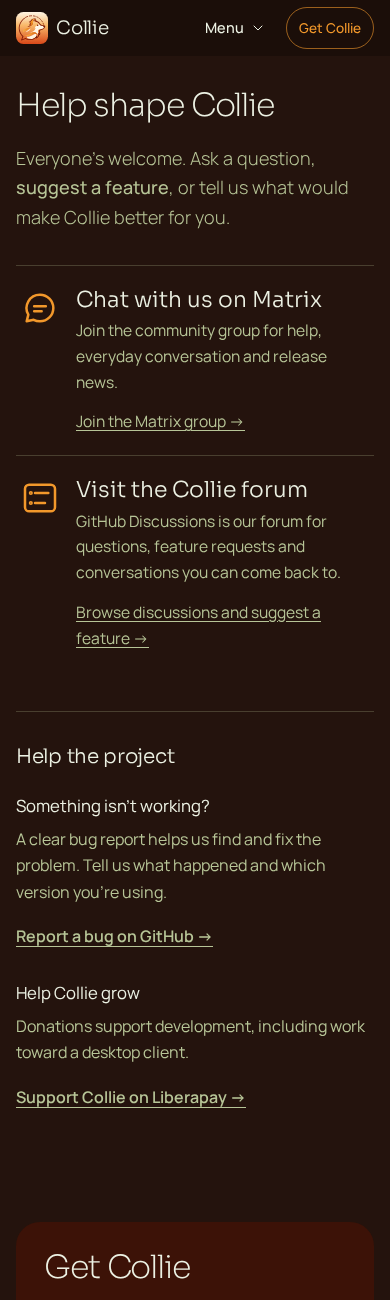
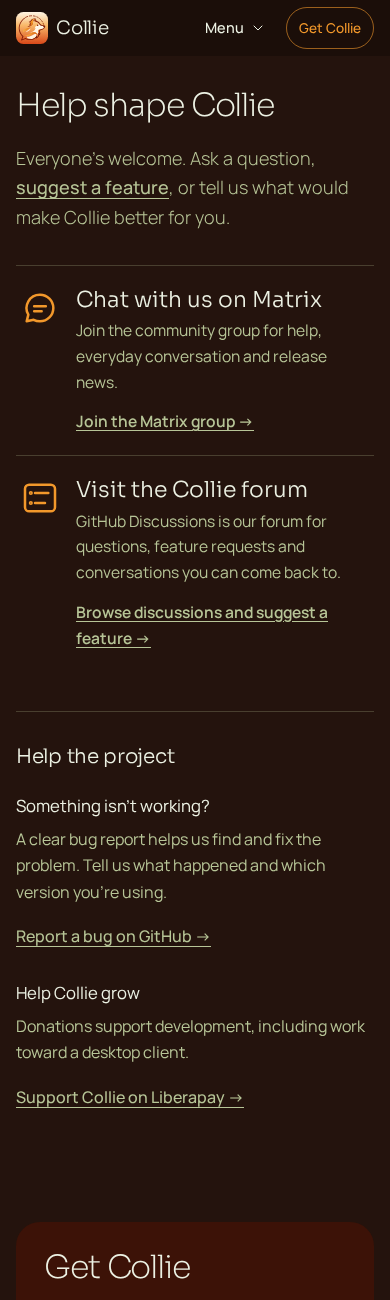
Record community action hierarchy and destination proof
Refresh the three affected views and computed primary/help weights while preserving the established website and installation evidence.

Layer: website

diff --git a/docs/screenshots/pr-95/README.md b/docs/screenshots/pr-95/README.md
@@ -1,10 +1,10 @@
 # Current website review evidence
 
-Implementation source is signed e532bde62ac1e4d4429b822055ee60ecc365c38a; native assets/provenance are signed b3b4857fe6ebc0338f732cd9129c8b1bc94880f0. Review the containing evidence commit as one stable candidate. No rating is supplied by the implementation owner.
+Implementation source is signed eb9e7c2376d78222dc0a86926f33084b26d96879; native assets/provenance are signed b3b4857fe6ebc0338f732cd9129c8b1bc94880f0. Review the containing evidence commit as one stable candidate. No rating is supplied by the implementation owner.
 
 ## Current views
 
-All paths below are in this directory. Features at all four widths, Upcoming at 320/390/1280, community at 320/390/1280, desktop-light/phone-dark downloads and the 390 page top are freshly rendered from this source. The 390 page-top PNG is byte-identical to b11ce6f9cebac1ac52b8c711b188a249f1f13429. Other hero/about/download/footer views retain that revision's unchanged component appearance; their source provenance is explicit rather than claimed as new captures. Historical menu/Obtainium support retains its earlier provenance below.
+All paths below are in this directory. The three community views are current eb9e7c source renders. Other freshly identified component views below retain e532bde source provenance and unchanged appearance. Features at all four widths, Upcoming at 320/390/1280, community at 320/390/1280, desktop-light/phone-dark downloads and the 390 page top are freshly rendered from this source. The 390 page-top PNG is byte-identical to b11ce6f9cebac1ac52b8c711b188a249f1f13429. Other hero/about/download/footer views retain that revision's unchanged component appearance; their source provenance is explicit rather than claimed as new captures. Historical menu/Obtainium support retains its earlier provenance below.
 
 | View | File | Actual iframe CSS viewport / PNG dimensions |
 | --- | --- | --- |
@@ -35,7 +35,7 @@ Collie is an Android messenger for ordinary Signal users. Copy is largely approv
 
 Immediately below the hero, one introduction consolidates Signal compatibility and Signal/Molly foundations. The benefit leads, provenance is quieter, and Source and security details is an optional native disclosure. Side by side, package-name and one-account/two-app explanations remain absent from that introduction; installation verification still names the package. The legal footer disclaimer remains byte-identical.
 
-Matrix chat and GitHub Discussions forum are prominent, with distinct chat/thread-list icons, 40px icon boxes and 22px titles; Help the project is a quieter 20px heading, with 16.8px Help subheads. Bug reporting/donations retain a separate Help the project group. Actions remain underlined, with selective bold/italic emphasis.
+Matrix chat and GitHub Discussions forum are prominent, with distinct chat/thread-list icons, 40px icon boxes and 22px titles; Help the project is a quieter 20px heading, with 16.8px Help subheads. Bug reporting/donations retain a separate Help the project group. Actions remain underlined, with selective bold/italic emphasis. Matrix/forum actions now compute weight600 against Help action500, correcting a specificity override that previously made the primary actions400. Their sizes/colors/icons are unchanged. The existing emphasized “suggest a feature” words in the Community intro now link to the already-used Ideas/Requests category; a real request returned HTTP200 at that exact GitHub category.
 
 Upcoming retains the existing nine-word first sentence as an 18px/400 benefit lead. A native details summary keeps the complete UnifiedPush/trusted MollySocket sentence visible. Only the unchanged easier-setup/linked-phone sentence is disclosed. Phones initially close this detail; desktop, direct #upcoming entry and markup without the site script keep it open. The exact feature Why link opens it before following #upcoming. Ordinary menu navigation does not force it open. No sentence, disclaimer, plan or URL was removed. The native underlined summary remains focusable, with measured heights 96/72/44px at 320/390/1280.
 

diff --git a/docs/screenshots/pr-95/render-checks.md b/docs/screenshots/pr-95/render-checks.md
@@ -154,3 +154,28 @@ behavior {"mode":"click","before":false,"togglesOpen":true,"togglesClosed":true,
 behavior {"mode":"direct","open":true,"explanationVisible":true,"planCount":8}
 behavior {"mode":"no-site-js","open":true,"explanationVisible":true,"planCount":8}
 ```
+
+## Current community action refinement
+
+Source eb9e7c2376d78222dc0a86926f33084b26d96879. Before the change, `.links span` overrode `.community-action`: main actions computed400 while Help computed600. The corrected main selector computes600 and Help500. Sizes, colors, icons and underlines are unchanged. The existing emphasized introduction words now form a link to the already-used Ideas/Requests category. An actual request returned HTTP200 at the exact destination, with title `0cwa/collieim-android Ideas Requests · Discussions · GitHub`. Three current native source renders are below. The same source also passed the768px overflow/readiness check without saving another image.
+
+### community-desktop-light.png
+
+```text
+ready {"width":1280,"height":900,"usable":1280,"fonts":"loaded","images":[],"overflow":false,"dark":false}
+communityActions {"main":[{"weight":"600","size":"15.6px","color":"rgb(90, 64, 51)","underline":"underline"},{"weight":"600","size":"15.6px","color":"rgb(90, 64, 51)","underline":"underline"}],"help":[{"weight":"500","size":"17px","color":"rgb(47, 79, 58)","underline":"underline"},{"weight":"500","size":"17px","color":"rgb(47, 79, 58)","underline":"underline"}],"introLink":"https://github.com/0cwa/collieim-android/discussions/categories/ideas-requests"}
+```
+
+### community-mobile-dark.png
+
+```text
+ready {"width":390,"height":1300,"usable":390,"fonts":"loaded","images":[true],"overflow":false,"dark":true}
+communityActions {"main":[{"weight":"600","size":"15.6px","color":"rgb(183, 197, 151)","underline":"underline"},{"weight":"600","size":"15.6px","color":"rgb(183, 197, 151)","underline":"underline"}],"help":[{"weight":"500","size":"16px","color":"rgb(183, 197, 151)","underline":"underline"},{"weight":"500","size":"16px","color":"rgb(183, 197, 151)","underline":"underline"}],"introLink":"https://github.com/0cwa/collieim-android/discussions/categories/ideas-requests"}
+```
+
+### community-narrow-light.png
+
+```text
+ready {"width":320,"height":1500,"usable":320,"fonts":"loaded","images":[true],"overflow":false,"dark":false}
+communityActions {"main":[{"weight":"600","size":"15.6px","color":"rgb(90, 64, 51)","underline":"underline"},{"weight":"600","size":"15.6px","color":"rgb(90, 64, 51)","underline":"underline"}],"help":[{"weight":"500","size":"16px","color":"rgb(47, 79, 58)","underline":"underline"},{"weight":"500","size":"16px","color":"rgb(47, 79, 58)","underline":"underline"}],"introLink":"https://github.com/0cwa/collieim-android/discussions/categories/ideas-requests"}
+```

diff --git a/docs/screenshots/pr-95/completion-audit.md b/docs/screenshots/pr-95/completion-audit.md
@@ -6,7 +6,7 @@ This is a factual requirement audit, not a design rating. Source and current ima
 | --- | --- |
 | Ordinary messenger audience and skimming | Patch/coexistence/two-app marketing removed, including the final hero coexistence fact at all widths. Two useful hero facts remain. Phone-only hero compaction brings actual first-message text to 705px at 390/721px at 320 without rewriting headline/lede. |
 | Signal/Molly consolidation | Intro contains compatibility, foundations and optional source/security details. Side by side and account/two-app explanations are absent. The installation verification still names the package as before. |
-| Community/help | Matrix and Discussions have distinct chat/forum icons and visible actions. Help the project remains a separate bug-report/donation group. |
+| Community/help | Matrix and Discussions have distinct chat/forum icons and visible actions. Help the project remains a separate bug-report/donation group. Main actions compute600 against Help500; the intro feature-request invitation links to the verified Ideas/Requests category. |
 | Exact notification link and emphasis | Required sentence/UnifiedPush anchor remain unchanged. Feature now describes alerts/connection plainly; precise trusted MollySocket requirement is at Upcoming. Selective emphasis/underlined links remain. |
 | Discussion-generated plans | Existing category only; eight plans in the supplied snapshot, label-priority first, separate badge, explicit planned disclaimer. Daily workflow uses 06:17 UTC and read permissions. Discussion106 wording was checked against the public source; URL unchanged. |
 | Installation options | Short secondary Obtainium prerequisite note adds 22px at 390; existing buttons/copy/handoff retained.  Obtainium/F-Droid share primary styling; Recommended appears only once; manual APK remains secondary. Website's actual CTA reaches its local handoff; README retains absolute Collie URL. GitHub update source, manual collie.im/#get fallback and tested nested-JSON filter are unchanged. |
